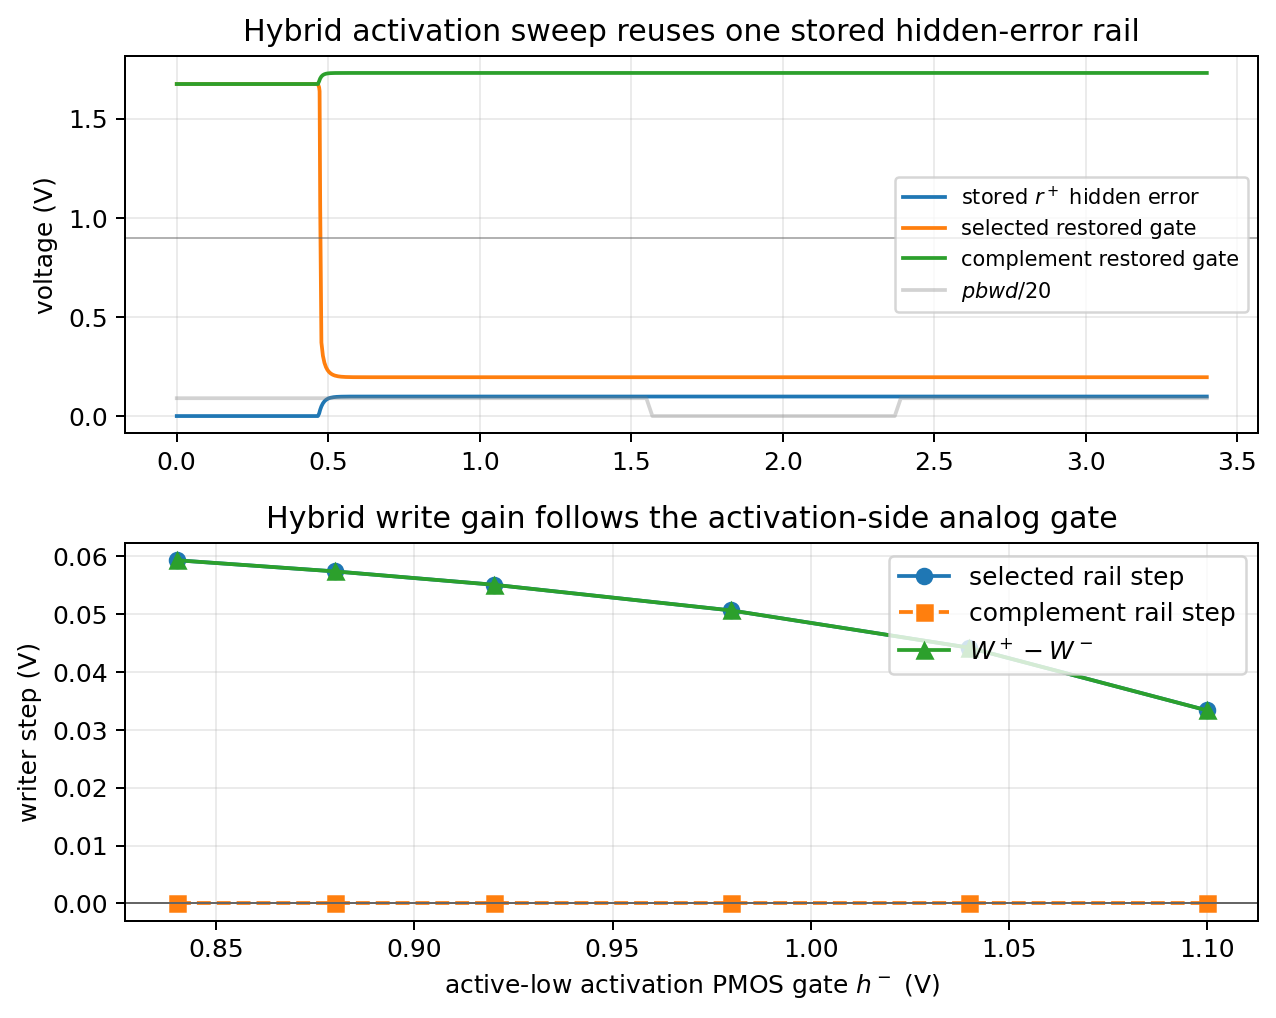
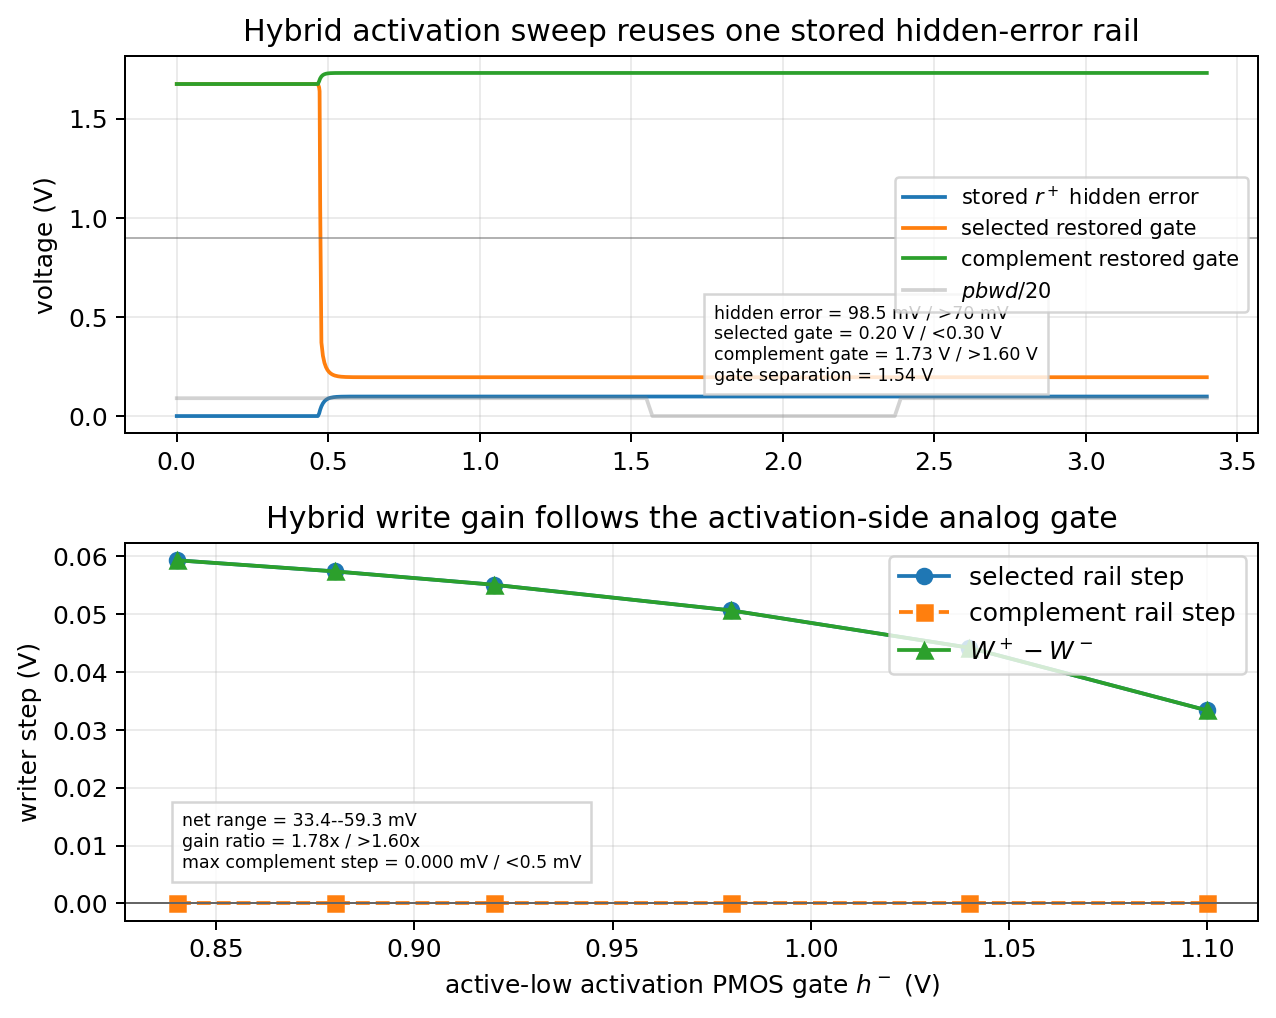
Annotate hybrid writer activation reuse margins

Changed region(s): [[0.5502, 0.2741, 0.8252, 0.3959], [0.1223, 0.7917, 0.4585, 0.8831]]

diff --git a/spice/run_mos_cell_characterization.py b/spice/run_mos_cell_characterization.py
@@ -5994,6 +5994,12 @@ quit
     hya_selected_step = np.array(hya_selected_step)
     hya_complement_step = np.array(hya_complement_step)
     hya_net = np.array(hya_net)
+    hya_hidden_sample = hyaat(1.35e-6, hya_hidden)
+    hya_selected_gate_sample = hyaat(1.45e-6, hya_selected_gate)
+    hya_complement_gate_sample = hyaat(1.45e-6, hya_complement_gate)
+    hya_gate_separation = hya_complement_gate_sample - hya_selected_gate_sample
+    hya_gain_ratio = hya_net[0] / hya_net[-1]
+    hya_complement_max = float(np.max(hya_complement_step))
     require(hyaat(1.35e-6, hya_hidden) > 0.07, "hybrid activation deck should store a positive hidden error")
     require(hyaat(1.45e-6, hya_selected_gate) < 0.30, "hybrid activation selected restored gate should be low")
     require(hyaat(1.45e-6, hya_complement_gate) > 1.60, "hybrid activation complement restored gate should be high")
@@ -6013,6 +6019,21 @@ quit
     hya_axes[0].set_ylabel("voltage (V)")
     hya_axes[0].set_title("Hybrid activation sweep reuses one stored hidden-error rail")
     hya_axes[0].grid(True, alpha=0.25)
+    hya_axes[0].text(
+        0.52,
+        0.14,
+        "hidden error = "
+        f"{1e3 * hya_hidden_sample:.1f} mV / >70 mV\n"
+        "selected gate = "
+        f"{hya_selected_gate_sample:.2f} V / <0.30 V\n"
+        "complement gate = "
+        f"{hya_complement_gate_sample:.2f} V / >1.60 V\n"
+        "gate separation = "
+        f"{hya_gate_separation:.2f} V",
+        transform=hya_axes[0].transAxes,
+        fontsize="x-small",
+        bbox=callout_box,
+    )
     hya_axes[0].legend(loc="center right", fontsize="small")
     hya_axes[1].plot(hya_gates, hya_selected_step, "o-", label="selected rail step")
     hya_axes[1].plot(hya_gates, hya_complement_step, "s--", label="complement rail step")
@@ -6022,6 +6043,19 @@ quit
     hya_axes[1].set_ylabel("writer step (V)")
     hya_axes[1].set_title("Hybrid write gain follows the activation-side analog gate")
     hya_axes[1].grid(True, alpha=0.25)
+    hya_axes[1].text(
+        0.05,
+        0.14,
+        "net range = "
+        f"{1e3 * np.min(hya_net):.1f}--{1e3 * np.max(hya_net):.1f} mV\n"
+        "gain ratio = "
+        f"{hya_gain_ratio:.2f}x / >1.60x\n"
+        "max complement step = "
+        f"{1e3 * hya_complement_max:.3f} mV / <0.5 mV",
+        transform=hya_axes[1].transAxes,
+        fontsize="x-small",
+        bbox=callout_box,
+    )
     hya_axes[1].legend(loc="upper right")
     hya_fig.tight_layout()
     save_plot(hya_fig, "mos_hidden_writer_restored_gate_hybrid_activation_ngspice")
@@ -6641,6 +6675,9 @@ quit
     hyq_rp_complement_gate = hyq_cols[5]
     hyq_rm_complement_gate = hyq_cols[6]
     hyq_rm_selected_gate = hyq_cols[7]
+    hyq_hidden_symmetry_error = abs(hyqat(1.35e-6, hyq_hidden_pos + hyq_hidden_neg))
+    hyq_min_selected_gate = min(hyqat(1.45e-6, hyq_rp_selected_gate), hyqat(1.45e-6, hyq_rm_selected_gate))
+    hyq_min_complement_gate = min(hyqat(1.45e-6, hyq_rp_complement_gate), hyqat(1.45e-6, hyq_rm_complement_gate))
     hyq_signed = []
     hyq_wp_step = []
     hyq_wm_step = []
@@ -6664,9 +6701,18 @@ quit
     hyq_hm_final = np.array(hyq_hm_final)
     hyq_expected_sign = np.array([expected_sign for *_rest, expected_sign in hybrid_product_cases])
     hyq_abs = np.abs(hyq_signed)
+    hyq_quadrant_spread = float(np.max(hyq_abs) - np.min(hyq_abs))
+    hyq_inactive_max = float(np.max(np.minimum(hyq_wp_step, hyq_wm_step)))
+    hyq_active_sample_error = float(
+        max(
+            np.max(np.abs(hyq_hp_final[:2] - 0.92)),
+            np.max(np.abs(hyq_hm_final[2:] - 0.92)),
+        )
+    )
+    hyq_inactive_sample_min = float(min(np.min(hyq_hm_final[:2]), np.min(hyq_hp_final[2:])))
     require(hyqat(1.35e-6, hyq_hidden_pos) > 0.07, "hybrid product r+ store should be positive")
     require(hyqat(1.35e-6, hyq_hidden_neg) < -0.07, "hybrid product r- store should be negative")
-    require(abs(hyqat(1.35e-6, hyq_hidden_pos + hyq_hidden_neg)) < 0.003, "hybrid product hidden stores should be symmetric")
+    require(hyq_hidden_symmetry_error < 0.003, "hybrid product hidden stores should be symmetric")
     require(hyqat(1.45e-6, hyq_rp_selected_gate) < 0.30, "hybrid product r+ selected gate should be low")
     require(hyqat(1.45e-6, hyq_rp_complement_gate) > 1.60, "hybrid product r+ complement gate should be high")
     require(hyqat(1.45e-6, hyq_rm_selected_gate) < 0.30, "hybrid product r- selected gate should be low")
@@ -6690,6 +6736,21 @@ quit
     hyq_axes[0].set_ylabel("voltage (V)")
     hyq_axes[0].set_title("Hybrid product router stores both hidden-error signs")
     hyq_axes[0].grid(True, alpha=0.25)
+    hyq_axes[0].text(
+        0.53,
+        0.13,
+        "e+ store = "
+        f"{1e3 * hyqat(1.35e-6, hyq_hidden_pos):.1f} mV / >70 mV\n"
+        "e- store = "
+        f"{1e3 * hyqat(1.35e-6, hyq_hidden_neg):.1f} mV / <-70 mV\n"
+        "symmetry error = "
+        f"{1e3 * hyq_hidden_symmetry_error:.2f} mV / <3 mV\n"
+        "selected/complement gates = "
+        f"{hyq_min_selected_gate:.2f}/{hyq_min_complement_gate:.2f} V",
+        transform=hyq_axes[0].transAxes,
+        fontsize="x-small",
+        bbox=callout_box,
+    )
     hyq_axes[0].legend(loc="center right", ncol=2, fontsize="small")
     hyq_x = np.arange(len(hybrid_product_cases))
     hyq_labels = [label for _name, label, *_rest in hybrid_product_cases]
@@ -6702,6 +6763,17 @@ quit
     hyq_axes[1].set_ylabel("activation gate (V)")
     hyq_axes[1].set_title("MOS pass gates sample exactly one activation sign per quadrant")
     hyq_axes[1].grid(True, alpha=0.25)
+    hyq_axes[1].text(
+        0.04,
+        0.13,
+        "active sample error <= "
+        f"{1e3 * hyq_active_sample_error:.1f} mV / <10 mV\n"
+        "inactive gate min = "
+        f"{hyq_inactive_sample_min:.2f} V / >1.35 V",
+        transform=hyq_axes[1].transAxes,
+        fontsize="x-small",
+        bbox=callout_box,
+    )
     hyq_axes[1].legend(loc="center right", ncol=2, fontsize="small")
     hyq_axes[2].bar(hyq_x - 0.18, 1e3 * hyq_wp_step, width=0.36, label="$W^+$ step")
     hyq_axes[2].bar(hyq_x + 0.18, -1e3 * hyq_wm_step, width=0.36, label="$-W^-$ step")
@@ -6712,6 +6784,19 @@ quit
     hyq_axes[2].set_ylabel("writer step (mV)")
     hyq_axes[2].set_title("signed update follows the four-quadrant product rule")
     hyq_axes[2].grid(True, axis="y", alpha=0.25)
+    hyq_axes[2].text(
+        0.53,
+        0.14,
+        "min |update| = "
+        f"{1e3 * np.min(hyq_abs):.1f} mV / >18 mV\n"
+        "quadrant spread = "
+        f"{1e3 * hyq_quadrant_spread:.2f} mV / <4 mV\n"
+        "inactive rail max = "
+        f"{1e3 * hyq_inactive_max:.3f} mV / <0.5 mV",
+        transform=hyq_axes[2].transAxes,
+        fontsize="x-small",
+        bbox=callout_box,
+    )
     hyq_axes[2].legend(loc="upper left", ncol=3, fontsize="small")
     hyq_fig.tight_layout()
     save_plot(hyq_fig, "mos_hidden_writer_restored_gate_hybrid_product_ngspice")
@@ -17212,21 +17297,25 @@ quit
     hye_weight = hye_wp - hye_wm
     hye_pos_step = hyeat(1.90e-6, hye_weight)
     hye_reset_hidden = hyeat(2.55e-6, hye_hidden)
+    hye_reset_common_error = abs(hyeat(2.55e-6, hye_common) - 1.04)
+    hye_reset_weight_disturb = abs(hyeat(2.55e-6, hye_weight) - hye_pos_step)
     hye_neg_hidden = hyeat(3.60e-6, hye_hidden)
     hye_final_weight = hyeat(4.25e-6, hye_weight)
+    hye_negative_cancel = hye_pos_step - hye_final_weight
+    hye_final_hold_error = abs(hyeat(5.90e-6, hye_weight) - hye_final_weight)
     require(hyeat(1.35e-6, hye_hidden) > 0.07, "hybrid reuse first store should create positive hidden error")
     require(hyeat(1.35e-6, hye_rgp) < 0.30, "hybrid reuse first selected restored gate should be low")
     require(hyeat(1.35e-6, hye_rgm) > 1.60, "hybrid reuse first complement restored gate should be high")
     require(hye_pos_step > 0.020, "hybrid reuse first sample should write W+")
     require(abs(hye_reset_hidden) < 0.004, "hybrid reuse reset should clear hidden-error differential")
-    require(abs(hyeat(2.55e-6, hye_common) - 1.04) < 0.005, "hybrid reuse reset should restore hidden-error common mode")
-    require(abs(hyeat(2.55e-6, hye_weight) - hye_pos_step) < 5e-4, "hybrid reuse reset should not disturb persistent weight caps")
+    require(hye_reset_common_error < 0.005, "hybrid reuse reset should restore hidden-error common mode")
+    require(hye_reset_weight_disturb < 5e-4, "hybrid reuse reset should not disturb persistent weight caps")
     require(hye_neg_hidden < -0.07, "hybrid reuse second store should create negative hidden error")
     require(hyeat(3.60e-6, hye_rgm) < 0.30, "hybrid reuse second selected restored gate should be low")
     require(hyeat(3.60e-6, hye_rgp) > 1.60, "hybrid reuse second complement restored gate should be high")
     require(hye_final_weight < hye_pos_step - 0.020, "hybrid reuse negative sample should cancel the prior W+ write")
     require(hye_final_weight < 0.010, "hybrid reuse final signed weight should be near-zero or negative after opposite sign")
-    require(abs(hyeat(5.90e-6, hye_weight) - hye_final_weight) < 5e-4, "hybrid reuse final weight should hold")
+    require(hye_final_hold_error < 5e-4, "hybrid reuse final weight should hold")
 
     hye_fig, hye_axes = plt.subplots(3, 1, figsize=(7.2, 7.4))
     hye_axes[0].plot(1e6 * hyet, hye_hidden, label="$c_{d+}-c_{d-}$")
@@ -17238,6 +17327,21 @@ quit
     hye_axes[0].set_ylabel("hidden state (V)")
     hye_axes[0].set_title("One hidden-error capacitor pair is reset and reused")
     hye_axes[0].grid(True, alpha=0.25)
+    hye_axes[0].text(
+        0.51,
+        0.15,
+        "first store = "
+        f"{1e3 * hyeat(1.35e-6, hye_hidden):.1f} mV / >70 mV\n"
+        "reset residue = "
+        f"{1e3 * abs(hye_reset_hidden):.2f} mV / <4 mV\n"
+        "common error = "
+        f"{1e3 * hye_reset_common_error:.2f} mV / <5 mV\n"
+        "second store = "
+        f"{1e3 * hye_neg_hidden:.1f} mV / <-70 mV",
+        transform=hye_axes[0].transAxes,
+        fontsize="x-small",
+        bbox=callout_box,
+    )
     hye_axes[0].legend(loc="upper right", ncol=2, fontsize="small")
     hye_axes[1].plot(1e6 * hyet, hye_rgp, label="$c_{d+}$ restored gate")
     hye_axes[1].plot(1e6 * hyet, hye_rgm, label="$c_{d-}$ restored gate")
@@ -17245,6 +17349,18 @@ quit
     hye_axes[1].set_ylabel("gate voltage (V)")
     hye_axes[1].set_title("Restored select gate swaps after physical reset")
     hye_axes[1].grid(True, alpha=0.25)
+    hye_axes[1].text(
+        0.52,
+        0.16,
+        "first selected/complement = "
+        f"{hyeat(1.35e-6, hye_rgp):.2f}/{hyeat(1.35e-6, hye_rgm):.2f} V\n"
+        "second selected/complement = "
+        f"{hyeat(3.60e-6, hye_rgm):.2f}/{hyeat(3.60e-6, hye_rgp):.2f} V\n"
+        "limits: selected <0.30 V, complement >1.60 V",
+        transform=hye_axes[1].transAxes,
+        fontsize="x-small",
+        bbox=callout_box,
+    )
     hye_axes[1].legend(loc="center right", fontsize="small")
     hye_axes[2].plot(1e6 * hyet, hye_wp - hyeat(1.35e-6, hye_wp), label="$W^+$ step")
     hye_axes[2].plot(1e6 * hyet, hye_wm - hyeat(1.35e-6, hye_wm), label="$W^-$ step")
@@ -17256,6 +17372,21 @@ quit
     hye_axes[2].set_ylabel("weight step (V)")
     hye_axes[2].set_title("Persistent weight caps survive reset and accept opposite update")
     hye_axes[2].grid(True, alpha=0.25)
+    hye_axes[2].text(
+        0.48,
+        0.15,
+        "W+ sample = "
+        f"{1e3 * hye_pos_step:.1f} mV / >20 mV\n"
+        "reset weight disturb = "
+        f"{1e3 * hye_reset_weight_disturb:.3f} mV / <0.5 mV\n"
+        "negative cancellation = "
+        f"{1e3 * hye_negative_cancel:.1f} mV / >20 mV\n"
+        "final hold error = "
+        f"{1e3 * hye_final_hold_error:.3f} mV / <0.5 mV",
+        transform=hye_axes[2].transAxes,
+        fontsize="x-small",
+        bbox=callout_box,
+    )
     hye_axes[2].legend(loc="upper right", ncol=2, fontsize="small")
     hye_fig.tight_layout()
     save_plot(hye_fig, "mos_hidden_writer_restored_gate_hybrid_reuse_ngspice")

diff --git a/engineering_log.md b/engineering_log.md
@@ -804,3 +804,4 @@
 - Added a positive-polarity reset-reference perturbation check around the `-30 mV` skew, `+65 mV` calibrated shifted-gate code. Clean reset samples establish `64.998/65.000/65.000 mV` gate differentials and store `46.999/46.967/46.967 mV`. Common-mode commands `0.88/0.92/0.89 V` again settle imperfectly to `0.909527/0.911544/0.890003 V`, but stored activation only moves `47.128/47.130/46.797 mV`. Differential trim jitter dominates: sampled `62.381/67.820/75.000 mV` stores `52.032/41.542/27.716 mV`. This family-completes the earlier negative-trim reset-reference result: both trim signs tolerate common-mode reference error, while differential trim delivery remains the calibration-sensitive rail.
 - Added a shifted-gate reset-switch threshold-corner check for both calibrated severe trim polarities. The new deck gives the reset transmission gates explicit strong, nominal, weak, and skewed `VTO` models while reusing the `+30 mV` skew / `-55 mV` trim and `-30 mV` skew / `+65 mV` trim branches. Across all corners, sampled trim error stays below `0.004 mV`, reset common-mode error below `0.009 mV`, and mean stored activation remains `46.971..46.972 mV` for the negative-trim branch and `46.978 mV` for the positive-trim branch. This narrows the remaining shifted-gate risk: ordinary reset TG threshold corners are not the visible limiter in the Level-1 fixture; forward-pair offset calibration and differential trim delivery still are.
 - Added a finite reset-reference source-impedance check for the shifted-gate split-reset rails. With nominal reset switches and severe calibrated branches (`+30 mV` skew / `-55 mV` trim and `-30 mV` skew / `+65 mV` trim), `0` and `1 kOhm` source impedance preserve trim within `0.067 mV` and keep stored activation around `47 mV`. At `10 kOhm`, the first short pre-reset pulse already under-delivers: the negative-trim branch samples only `-31.782 mV` on the first reset and stores `1.964/41.967/44.688 mV`, while the positive-trim branch samples `37.563 mV` and stores `97.472/48.589/45.160 mV`. At `100 kOhm` and above the latch returns to the known under-trim failure directions. The reset TGs have device-corner margin, but the trim-reference driver must be low impedance or the reset pulse must be lengthened before this calibration is array-realistic.
+- Added ngspice-derived callouts to the hybrid writer activation, product-router, and reset/reuse figures. The activation sweep now exposes the stored hidden error (`98.5 mV`), restored-gate separation (`1.54 V`), positive incremental write range (`33.4--59.3 mV`), gain ratio (`1.78x`), and suppressed complement rail (`0.000 mV`). The four-quadrant product plot now reports symmetric stored errors (`+/-98.5 mV`), selected/complement restored gates (`0.20/1.73 V`), exact activation sampling in this fixture, minimum signed update (`23.0 mV`), zero displayed quadrant spread, and suppressed inactive rail. The reuse plot now reports reset residue/common-mode error near zero, no visible reset disturbance of persistent weight caps, `25.7 mV` first write, `25.7 mV` opposite-sign cancellation, and zero displayed final hold error. This did not change circuit behavior; it makes the existing ngspice pass margins visible in the paper plots.
